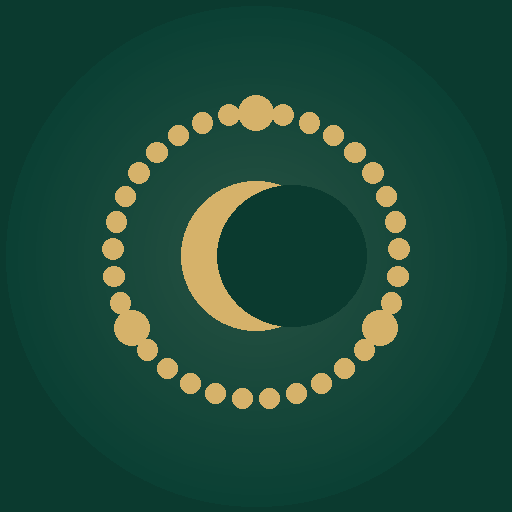
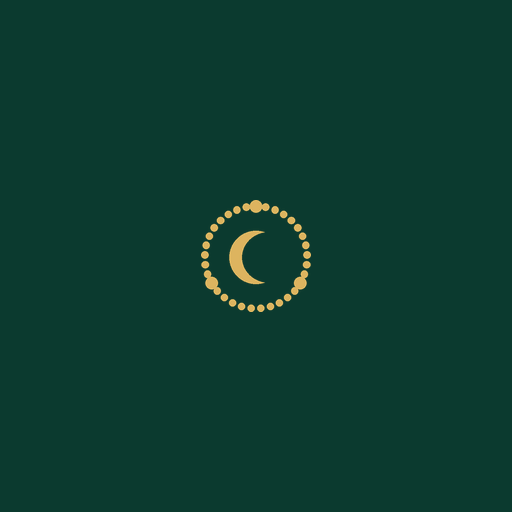
Add files via upload

Changed region(s): [[0.1875, 0.1875, 0.8125, 0.8125], [0.3438, 0.3438, 0.625, 0.6562]]

diff --git a/index.html b/index.html
@@ -205,6 +205,16 @@
 body.mushaf-fullscreen .mushaf,body.mushaf-fullscreen .mus-body.printed{background:var(--mushaf-paper)}
 body.mushaf-fullscreen .mus-body.printed .mushaf-page-svg{width:100vw!important;height:var(--mushaf-vh)!important;max-width:100vw!important;max-height:var(--mushaf-vh)!important;object-fit:contain!important}
 
+
+/* v24 R28 — professional launch handoff */
+html,body{background:#0B3A2F}
+body:not(.app-boot-ready){overflow:hidden}
+#app-boot-splash{position:fixed;inset:0;z-index:1000000;display:grid;place-items:center;background:#0B3A2F;opacity:1;visibility:visible;transition:opacity .18s ease,visibility .18s step-end}
+#app-boot-splash img{width:78px;height:78px;object-fit:contain;display:block;filter:drop-shadow(0 4px 14px rgba(0,0,0,.08));transform:translateZ(0)}
+body.app-boot-ready{background:var(--paper)}
+body.app-boot-ready #app-boot-splash{opacity:0;visibility:hidden;pointer-events:none}
+@media(max-width:420px){#app-boot-splash img{width:72px;height:72px}}
+@media(prefers-reduced-motion:reduce){#app-boot-splash{transition:none}}
 </style>
 <style>
 :root{
@@ -944,6 +954,8 @@ nav button[aria-current="true"]{color:var(--deep);background:var(--wash)}
 
 </head>
 <body>
+<div id="app-boot-splash" role="presentation" aria-hidden="true"><img src="./splash-mark.png" alt=""></div>
+
 <header><div class="wrap hrow">
   <div>
     <h1 id="page-title">اليوم</h1>
@@ -1619,6 +1631,22 @@ body.hadith-open{overflow:hidden}.hadith-detail{z-index:320!important;inset:0!im
 
 </style>
 
+
+<script>
+(function(){
+  let done=false;
+  function reveal(){
+    if(done) return; done=true;
+    requestAnimationFrame(function(){requestAnimationFrame(function(){
+      document.body.classList.add('app-boot-ready');
+      setTimeout(function(){const s=document.getElementById('app-boot-splash');if(s)s.remove();},240);
+    });});
+  }
+  if(document.readyState==='loading') document.addEventListener('DOMContentLoaded',reveal,{once:true}); else reveal();
+  window.addEventListener('pageshow',reveal,{once:true});
+  setTimeout(reveal,850);
+})();
+</script>
 <script src="./data-safety.js"></script>
 <script src="./tafsir-config.js"></script>
 <script src="./app.js"></script>

diff --git a/data-safety.js b/data-safety.js
@@ -233,7 +233,7 @@
     if(!validation.ok)throw new Error('تعذّر التصدير لأن بعض البيانات غير قابلة للقراءة. استخدم فحص البيانات أولًا.');
     const extension=await collectExtensionData();
     const core={
-      format:BACKUP_FORMAT,backupVersion:BACKUP_VERSION,appVersion:'24.7.0',
+      format:BACKUP_FORMAT,backupVersion:BACKUP_VERSION,appVersion:'24.8.0',
       dataVersion:+(await adapter.get(DATA_VERSION_KEY)||CURRENT_DATA_VERSION),createdAt:new Date().toISOString(),
       origin:location.origin,records:app.records,rawLocal:app.rawLocal,extension,
       summary:{recordCount:Object.keys(app.records).length,dayCount:Object.keys(app.records).filter(k=>k.startsWith('day:')).length}

diff --git a/sw.js b/sw.js
@@ -1,6 +1,6 @@
 /* Tadaruq PWA service worker — generated for v24 R27. */
-const CACHE_NAME = 'tadaruq-v24-r27-pwa-20260820';
-const RUNTIME_CACHE = 'tadaruq-runtime-v24-r27-20260820';
+const CACHE_NAME = 'tadaruq-v24-r28-pwa-20260820';
+const RUNTIME_CACHE = 'tadaruq-runtime-v24-r28-20260820';
 const PRECACHE_URLS = [
   "./",
   "./adiya.json",

diff --git a/AI_HANDOFF.md b/AI_HANDOFF.md
@@ -1445,3 +1445,27 @@ Owner requirement (2026-08-20):
 - PWA cache: `tadaruq-v24-r27-pwa-20260820`; runtime cache R27.
 - Data Safety schema remains 2; backup metadata version is `24.7.0`; no persistent data keys changed.
 - Required real-device regression after deploy: light Mushaf, dark Mushaf, fullscreen light/dark, pages with headers/footers/surah starts, ayah tap polygons, swipe directions, zoom, and several pages with historically large internal whitespace.
+
+
+## 30) v24 R28 — Professional Android/PWA launch splash (2026-08-20)
+
+### Owner request
+Owner reported that the image shown while the mobile app launches looks unprofessional and requested a launch experience closer to Facebook/LinkedIn/Instagram: a clean solid surface with a small centered brand icon.
+
+### Diagnosis
+The currently uploaded PWABuilder AAB embeds a native `splash.png` where the old 512 icon is effectively scaled to a large square, so its ornamental logo fills too much of the screen. This first native Android frame is inside the AAB and **cannot be changed by a GitHub-only web update**. A new AAB/version code is required to change the Google Play launch splash.
+
+### R28 implementation
+- Brand launch background standardized to `#0B3A2F`.
+- `app/icon-512.png` is now intentionally splash-safe: a solid Tadaruq green 512 canvas with a much smaller centered gold Tadaruq mark. This follows PWABuilder's historic behavior of using the 512 `any` icon for the TWA splash.
+- `app/icon-maskable-512.png` is deliberately unchanged so Android adaptive launcher icon behavior is preserved.
+- Added `app/splash-mark.png` (transparent gold mark) and a very short web/PWA startup handoff overlay. The overlay uses the exact same brand background and small mark, then fades after the first DOM paint; this avoids an ugly color/size jump between native splash and loaded web UI.
+- Web Manifest `background_color` is now `#0B3A2F`; `theme_color` remains the same brand green.
+- PWA cache/runtime cache bumped from R27 to R28.
+- No user storage schema changes and no new permissions. Data Safety schema remains 2.
+
+### Required Android store update
+To change the actual Google Play launch frame, rebuild in PWABuilder only **after R28 is deployed**, keeping package ID `com.tadaruqnoor.rafiq`, using **version code 2**, and signing with the exact existing upload keystore/alias/passwords. Do not create a new signing key. Play App Signing continues to sign distribution builds. See `PWABUILDER-R28-ANDROID-SETTINGS.md`.
+
+### Standing UX rule
+Do not revert to a large full-canvas ornamental splash. Launch should remain minimal: solid Tadaruq background, small centered mark, fast fade, no text, no spinner, no marketing copy.
